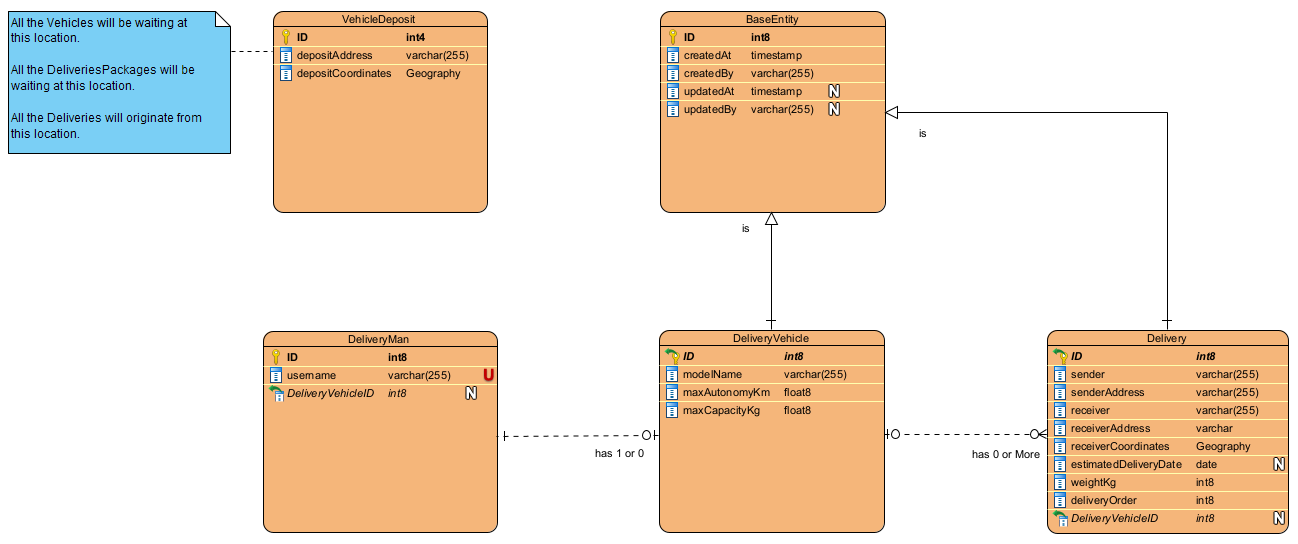
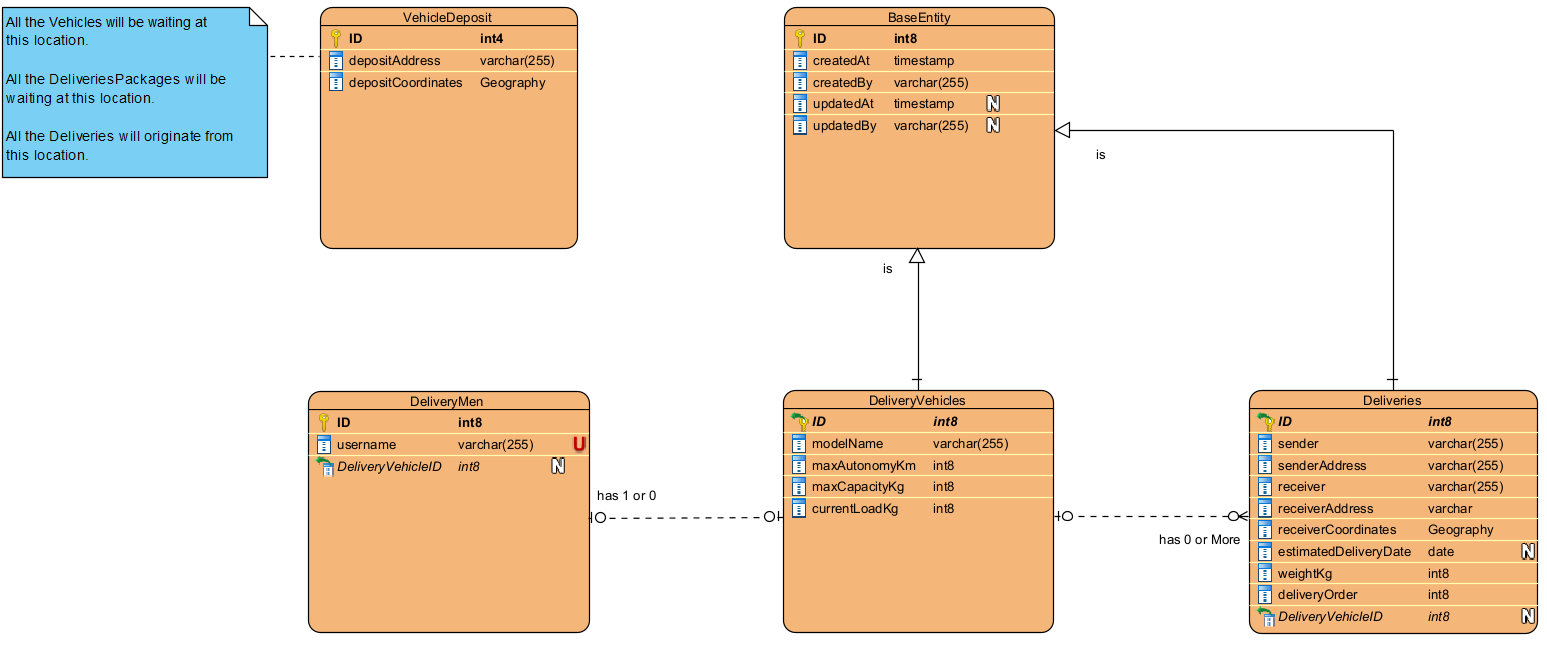
Updated DB description

diff --git a/GreenWay/src/main/java/dev/redy1908/greenway/delivery_vehicle/domain/DeliveryVehicle.java b/GreenWay/src/main/java/dev/redy1908/greenway/delivery_vehicle/domain/DeliveryVehicle.java
@@ -15,7 +15,7 @@ import java.util.List;
 @ToString
 @AllArgsConstructor
 @NoArgsConstructor
-@Table(name = "vehicles")
+@Table(name = "delivery_vehicles")
 public class DeliveryVehicle extends BaseEntity {
 
     @Column(nullable = false)
